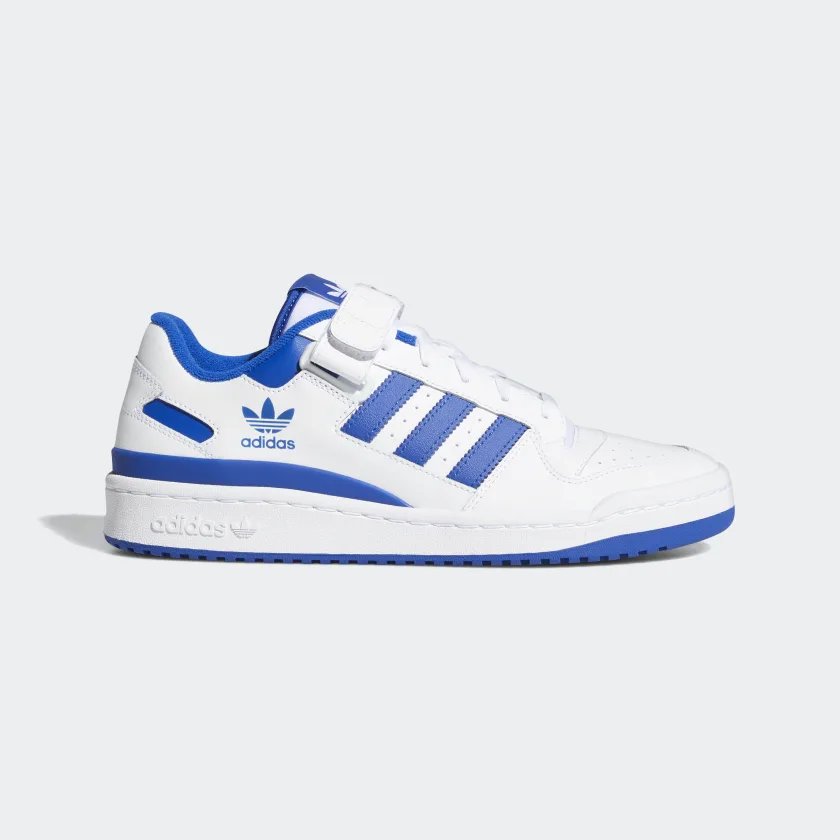
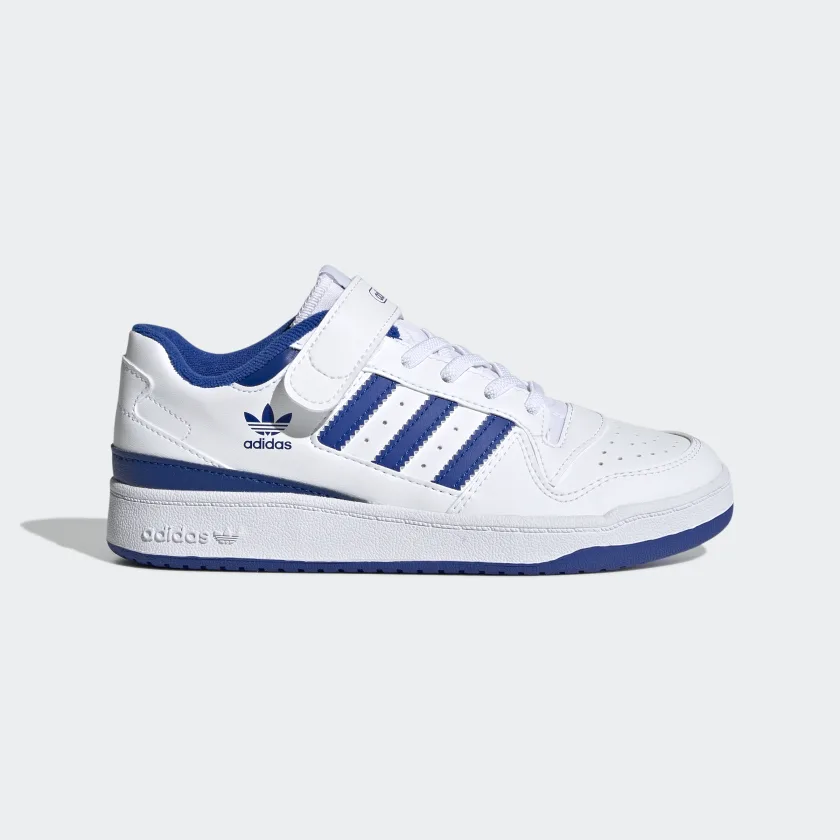
Change some image

Changed region(s): [[0.031, 0.3095, 0.8976, 0.7119], [0.8048, 0.4952, 0.8357, 0.5571]]

diff --git a/lib/Model/Item.dart b/lib/Model/Item.dart
@@ -14,9 +14,9 @@ class Item {
 
 final List<Item> items = [
   Item(
-      name: "adidas",
+      name: "adidas Forum",
       imagepath: "assets/image/1.webp",
-      price: 150,
+      price: 185,
       location: "Outlet Store"),
   Item(
       name: "adidas NMD",
@@ -44,9 +44,9 @@ final List<Item> items = [
       price: 160,
       location: "Outlet Store"),
   Item(
-      name: "NIKE AIR MAX",
-      imagepath: "assets/image/7.webp",
-      price: 170,
+      name: "adidas Superstar",
+      imagepath: "assets/image/7.jpg",
+      price: 150,
       location: "Outlet Store"),
   Item(
       name: "NIKE Jordan",
@@ -57,7 +57,7 @@ final List<Item> items = [
       imagepath: "assets/image/9.webp",
       price: 230,
       location: "Outlet Store",
-      name: "Jordan Air"),
+      name: "Blue Vans"),
   Item(
       imagepath: "assets/image/10.webp",
       price: 215,
